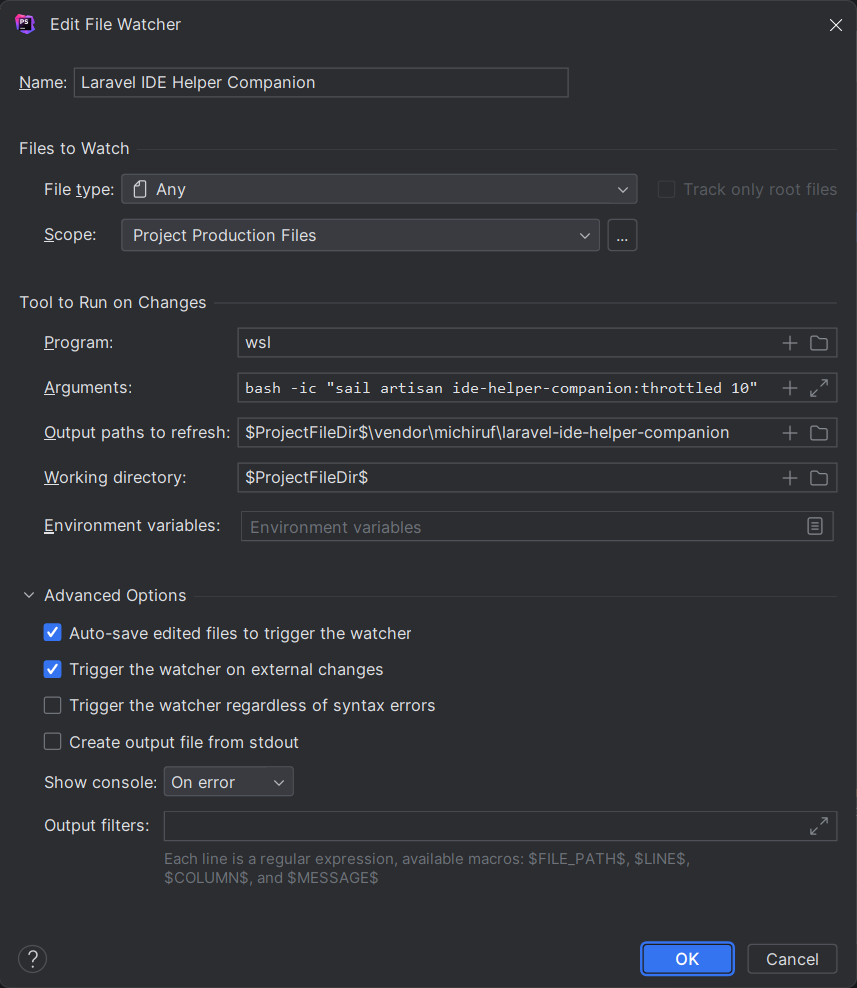
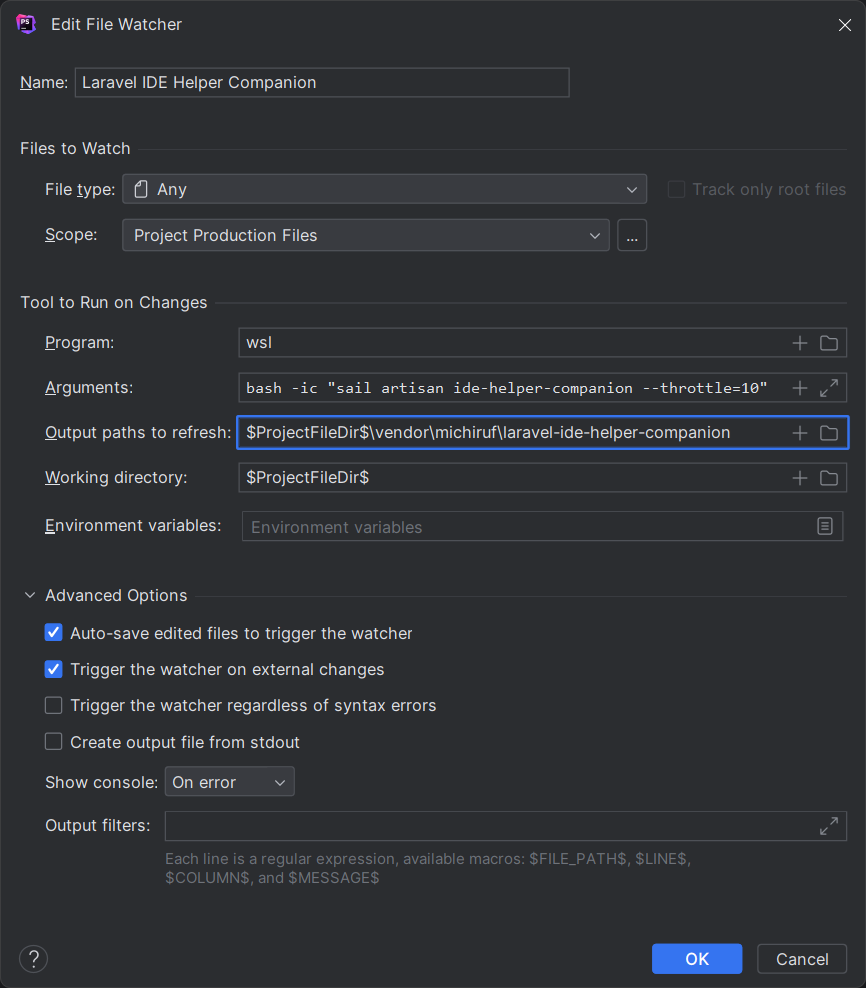
Update readme

diff --git a/README.md b/README.md
@@ -15,15 +15,22 @@ Which aims to integrate easily with PHPStorm.
            {
                "type": "vcs",
                "url": "https://github.com/michiruf/laravel-ide-helper-companion.git"
+           },
+           {
+               "type": "vcs",
+               "url": "https://github.com/michiruf/laravel-collection-differ.git"
            }
        ],
        "require-dev": {
            // ...
            "michiruf/laravel-ide-helper-companion": "dev-main",
+           "michiruf/laravel-collection-differ": "dev-main",
            // ...
        }
    }
    ```
+   > [!NOTE]
+   > In a future update there will be packages.
 2. Perform a composer update for the package
    ```shell
    composer update michiruf/laravel-ide-helper-companion
@@ -31,14 +38,16 @@ Which aims to integrate easily with PHPStorm.
    
 ## Usage
 
-Command:
+Commands:
 ```shell
-php artisan ide-helper-companion
+php artisan ide-helper-companion {--throttle=0}
+php artisan ide-helper-companion:annotate {--D|dir=} {--throttle=0}
+php artisan ide-helper-companion:generate {--throttle=0}
 ```
 
 Command for a file watcher:
 ```shell
-php artisan ide-helper-companion:throttled 10
+php artisan ide-helper-companion --throttle=10
 ```
 will execute the command only every 10 seconds, and also will retry the current execution after 10 seconds.
 
